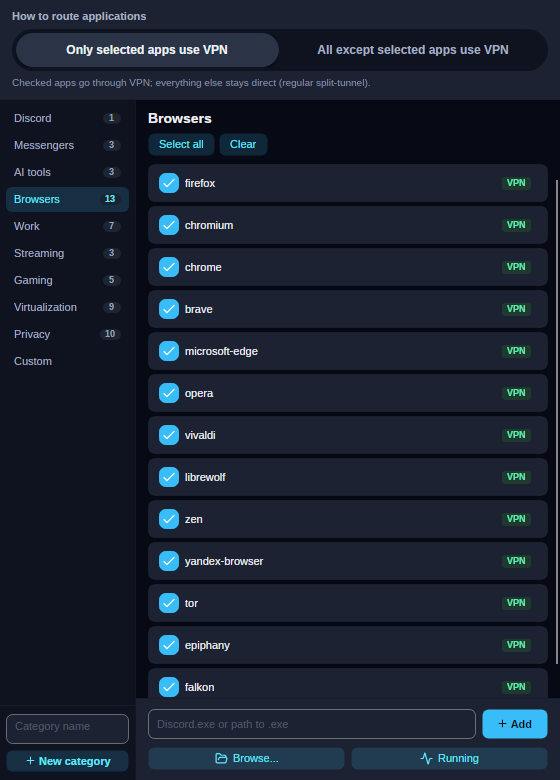
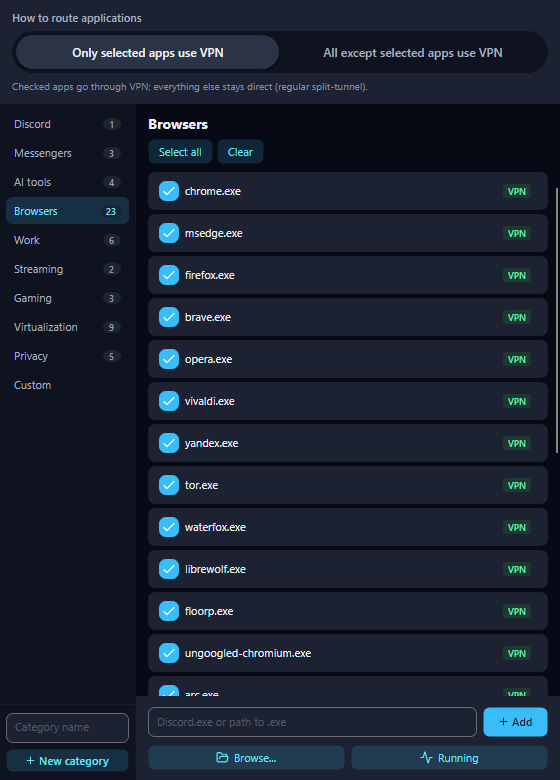
docs(readme): Windows renders, honest clip caption, no emoji on the guide pages (R-2)
The screens and the clip are rendered with the Windows build of the UI
renderer on WINBRAT, so they show Windows strings, header badges and real
executable names instead of Linux text. The clip is captioned as assembled
from renders with an animated cursor, the hero caption names the platform,
and the platform emoji on the install pages are replaced by plain labels.
The outcome of the brief records the numbers.

Changed region(s): [[0.0, 0.0, 1.0, 0.9846], [0.0304, 0.9231, 0.2125, 0.9846]]

diff --git a/docs/guide/install.md b/docs/guide/install.md
@@ -6,7 +6,7 @@ Part of the [VPNRouter README](../../README.md).
 
 <table>
 <tr>
-<td width="80" align="center">🐧<br><b>Linux</b></td>
+<td width="80" align="center"><b>Linux</b></td>
 <td>
 
 ```bash
@@ -16,7 +16,7 @@ Debian / Ubuntu / Mint / Pop / elementary. Adds the signed apt repo, installs `v
 </td>
 </tr>
 <tr>
-<td align="center">🍎<br><b>macOS</b></td>
+<td align="center"><b>macOS</b></td>
 <td>
 
 ```bash
@@ -26,7 +26,7 @@ Apple Silicon. Auto-strips Gatekeeper quarantine. First launch prompts once for 
 </td>
 </tr>
 <tr>
-<td align="center">🪟<br><b>Windows</b></td>
+<td align="center"><b>Windows</b></td>
 <td>
 
 ```powershell
@@ -38,7 +38,7 @@ Prefer a regular setup wizard? Download `VPNRouter-Setup-v{version}.exe` from [R
 </td>
 </tr>
 <tr>
-<td align="center">🤖<br><b>Android</b></td>
+<td align="center"><b>Android</b></td>
 <td>
 
 ```
@@ -59,16 +59,16 @@ Published version tags are permanent source references; older candidate download
 
 | File | Platform | What it is |
 |---|---|---|
-| `VPNRouter-v{version}-win.zip` | 🪟 Windows | Full installer (first install) |
-| `VPNRouter-update-v{version}-win.zip` | 🪟 Windows | DLL-only update (if you're already on a recent version) |
-| `VPNRouter-Setup-v{version}.exe` | 🪟 Windows | Setup wizard (Inno Setup, not code-signed): installs the same files as the install zip, with an uninstaller and optional autostart/service checkboxes |
-| `VPNRouter-*-win.zip.sha256` | 🪟 Windows | SHA256 companion file — auto-updater verifies the download against this before extracting (v2.15.8+) |
-| `VPNRouter-v{version}-mac.dmg` | 🍎 macOS | Drag-install DMG (Apple Silicon) with `InstallGuide.html` for one-time sudoers setup |
-| `VPNRouter-v{version}-mac.zip` | 🍎 macOS | Raw `.app` bundle (for manual install) |
-| `VPNRouter-v{version}-linux-amd64.deb` | 🐧 Linux | Debian/Ubuntu package (desktop entry + `setcap` for passwordless TUN; no systemd service). Install: `sudo dpkg -i <file>.deb` |
-| `VPNRouter-v{version}-linux-x86_64.AppImage` | 🐧 Linux | Portable single-file build. `chmod +x`, run, no install needed |
-| `VPNRouter-v{version}-linux.tar.gz` | 🐧 Linux | Raw tarball (for manual install or packaging into other formats) |
-| `VPNRouter-v{version}-android-arm64.apk` | 🤖 Android | Signed ARM64 APK, API 23+. Built and signed by `build-android.yml` for every release tag, then published at Releases and [`vpn.ninitux.com/android`](https://vpn.ninitux.com/android). An in-app updater delivers future APKs. |
+| `VPNRouter-v{version}-win.zip` | Windows | Full installer (first install) |
+| `VPNRouter-update-v{version}-win.zip` | Windows | DLL-only update (if you're already on a recent version) |
+| `VPNRouter-Setup-v{version}.exe` | Windows | Setup wizard (Inno Setup, not code-signed): installs the same files as the install zip, with an uninstaller and optional autostart/service checkboxes |
+| `VPNRouter-*-win.zip.sha256` | Windows | SHA256 companion file — auto-updater verifies the download against this before extracting (v2.15.8+) |
+| `VPNRouter-v{version}-mac.dmg` | macOS | Drag-install DMG (Apple Silicon) with `InstallGuide.html` for one-time sudoers setup |
+| `VPNRouter-v{version}-mac.zip` | macOS | Raw `.app` bundle (for manual install) |
+| `VPNRouter-v{version}-linux-amd64.deb` | Linux | Debian/Ubuntu package (desktop entry + `setcap` for passwordless TUN; no systemd service). Install: `sudo dpkg -i <file>.deb` |
+| `VPNRouter-v{version}-linux-x86_64.AppImage` | Linux | Portable single-file build. `chmod +x`, run, no install needed |
+| `VPNRouter-v{version}-linux.tar.gz` | Linux | Raw tarball (for manual install or packaging into other formats) |
+| `VPNRouter-v{version}-android-arm64.apk` | Android | Signed ARM64 APK, API 23+. Built and signed by `build-android.yml` for every release tag, then published at Releases and [`vpn.ninitux.com/android`](https://vpn.ninitux.com/android). An in-app updater delivers future APKs. |
 | `*.sha256` companion files | All | SHA256 hash sidecars — auto-updater + CI integrity check verify before extracting. Every binary above ships with a `<file>.sha256` sidecar (Windows `*-win.zip` + `*-update-win.zip` + `*-Setup-*.exe`, macOS `*-mac.dmg` + `*-mac.zip`, Linux `*.deb` + `*.AppImage` + `*.tar.gz`). Compare `sha256sum <file>` on Linux, `shasum -a 256 <file>` on macOS, or `Get-FileHash -Algorithm SHA256 <file>` on Windows with the 64-character hash in its sidecar. Some sidecars contain only the hash and cannot be used directly with `sha256sum -c`. |
 
 The scheduled pool job publishes this separate artifact when it succeeds:

diff --git a/plans/phase-readme-windows-shots-2026-10-04.md b/plans/phase-readme-windows-shots-2026-10-04.md
@@ -41,4 +41,15 @@ Revert the PR. The previous images and workflow are in Git.
 
 ## Outcome
 
-Pending.
+Ready for review.
+
+- Workflow: `build-ui-mcp.yml` now also publishes `win-x64` (self-contained) as the artifact `vpnrouter-ui-mcp-win-x64`; PR run 37210114841 at c1e0f661 passed (both publishes, Linux smoke unchanged).
+- Render on WINBRAT: identity checked twice (`WINBRAT`), binary from that artifact copied to `C:\android-build\readme-render`, six `ui_render` calls through `mcpcall.py` over ssh (about 20 s of work), folder removed afterwards (checked), no `vpnrouter-ui-mcp.exe` left running; the installed app that was already running was not touched. The Windows render differs from the Linux one where it matters: "Configure VPN autostart at Windows boot", the VPN/Zapret/TG badges in the header, real executable names in the application list.
+- Images in `docs/images/` replaced (same names): six PNG of 50 to 53 KB, two clips of 2.7 and 2.9 MB rebuilt from a lossless intermediate at WebP quality 95; `clip_quality.py` worst frame 0.985 (en) and 0.985 (ru), none under 0.98. The click and highlight positions of the clip were retuned for the taller Windows header.
+- README: the hero caption now says the screens are renders of the current code on Windows with sample data; the clip has its own caption saying it is assembled from such renders with an animated cursor and is not a screen recording (English and Russian).
+- Guide pages: all 28 platform emoji removed from `docs/guide/install.md` and the Russian page (plain labels instead); no emoji left in the READMEs or guide pages.
+- Checks: `readme_check.py` 0 FAIL and 0 WARN on both READMEs, `readme_phone.py` PASS (390 px box) on both, links unchanged and resolving.
+- Surprise: the first clip captures hung and two headless Chromium processes crashed (SIGILL, SIGTRAP) while about 6 GB of `/tmp` (a RAM-backed filesystem) were in use together with the owner's heavy browser tab; freeing about 1 GB of my own scratch files fixed it and the renders ran at low priority afterwards.
+- Not done: Android screenshots; macOS and Linux renders (the README says Windows).
+
+Rollback: revert the PR.

diff --git a/README.md b/README.md
@@ -19,7 +19,7 @@
   <img src="docs/images/home-connected-dark-en.png" width="46%" alt="VPNRouter main screen, connected, dark theme"/>
   <img src="docs/images/home-ready-light-en.png" width="46%" alt="VPNRouter main screen, ready to connect, light theme"/>
 </p>
-<p align="center"><sub>Rendered from the current build with sample data: no real servers or accounts.</sub></p>
+<p align="center"><sub>Rendered from the current code on Windows with sample data: no real servers or accounts.</sub></p>
 
 <p align="center">
   <a href="https://github.com/PavelLizunov/VPNRouter/releases/latest"><img src="https://img.shields.io/github/v/release/PavelLizunov/VPNRouter?color=7C3AED" alt="Latest release"/></a>
@@ -70,6 +70,7 @@ More: [Features](docs/guide/features.md).
 <p align="center">
   <img src="docs/images/tour-en.webp" width="640" alt="Short tour: connect with one button, then choose which apps use the VPN"/>
 </p>
+<p align="center"><sub>Assembled from such renders with an animated cursor. It is not a screen recording.</sub></p>
 <p align="center">
   <img src="docs/images/apps-dark-en.png" width="46%" alt="VPNRouter application routing screen with the Browsers category selected"/>
 </p>
